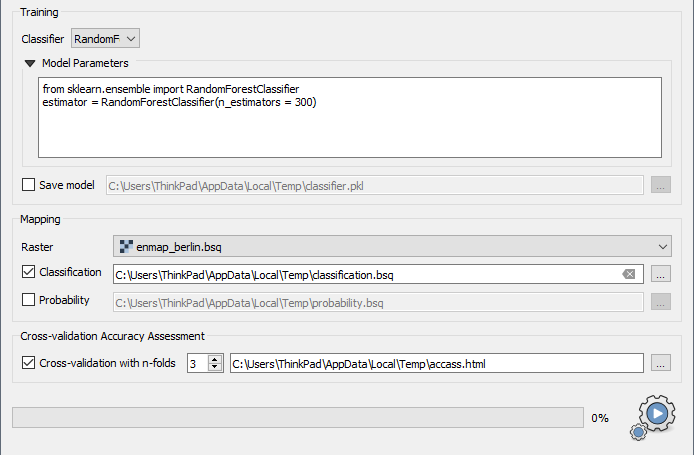
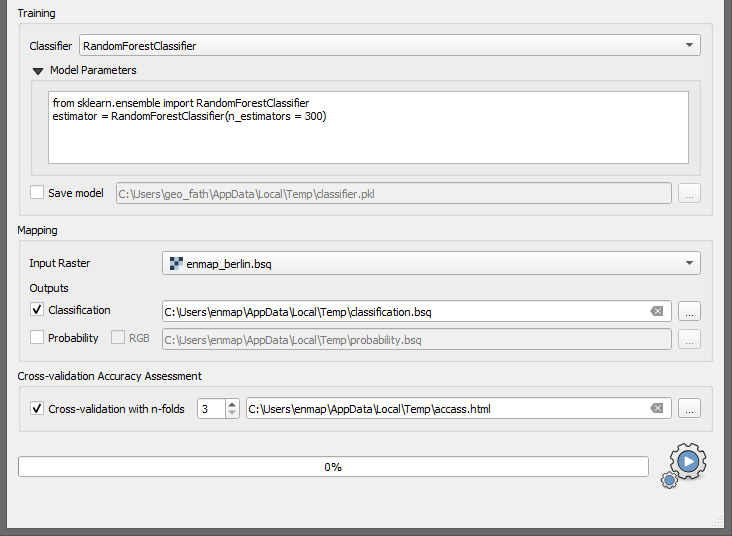
doc: css updates for guilabels, smaller edits, updated screenshots

Changed region(s): [[0.0, 0.0, 1.0, 1.0], [0.4236, 0.8615, 0.4841, 0.8923], [0.8473, 0.8923, 0.8775, 0.9231]]

diff --git a/doc/source/_static/css/custom.css b/doc/source/_static/css/custom.css
@@ -1,5 +1,46 @@
+/*
+.wy-nav-content {
+ max-width: 800px;
+}
+*/
+
+.menuselection {
+ border:1px dashed #7fbbe366;
+ background:#f1f9ff;
+ font-size:95%;
+ font-weight:700;
+ border-radius:1px;
+ padding:2.4px 6px;
+ margin:auto 2px
+}
+
+.rst-content .guilabel {
+ border:1px solid #7fbbe366;
+ background:#f1f9ff;
+ font-size:95%;
+ font-weight:700;
+ border-radius:1px;
+ padding:2.4px 6px;
+ margin:auto 2px
+}
+
+
+/*
 .menuselection {
     font-family: "Lato","proxima-nova","Helvetica Neue",Arial,sans-serif;
-/*    font-style: italic; */
+    font-style: italic;
     font-weight: bold;
 }
+*/
+
+/*
+.guilabel {
+ border:1px solid #7fbbe3;
+ background:#e7f2fa;
+ font-size:80%;
+ font-weight:700;
+ border-radius:4px;
+ padding:2.4px 6px;
+ margin:auto 2px
+}
+*/

diff --git a/doc/source/usr_section/usr_gettingstarted.rst b/doc/source/usr_section/usr_gettingstarted.rst
@@ -28,51 +28,49 @@ Loading Testdata
 
 * Go to :menuselection:`Project --> Load Example Data` to load example datasets into you project (on first open, you will be asked whether
   to download the dataset, confirm with :guilabel:`OK`). The following datasets
-  will be added (now they are listed in the ``Data Sources`` window):
-    * enmap_berlin.bsq
-    * hires_berlin.bsq
-    * landcover_berlin_point.shp
-    * landcover_berlin_polygon.shp
-    * library_berlin.sli
+  will be added (now they are listed in the :guilabel:`Data Sources` window):
 
-  .. tip::
+  * enmap_berlin.bsq
+  * hires_berlin.bsq
+  * landcover_berlin_point.shp
+  * landcover_berlin_polygon.shp
+  * library_berlin.sli
 
-    Have a look at the section :ref:`Test dataset <test_dataset>` for further information on the dataset. In this section we will
-    mainly work with *enmap_berlin.bsq* and *landcover_berlin_point.shp*
+.. tip::
+
+   Have a look at the section :ref:`Test dataset <test_dataset>` for further information on the dataset. In this section we will
+   mainly work with *enmap_berlin.bsq* and *landcover_berlin_point.shp*
 
 
 First Steps in the GUI
 ######################
 
-* By default the example data is loaded into a single Map View. Let's rearrange those for better visualisation and in order
-  to get to know the GUI functionalities:
+By default the example data is loaded into a single Map View. Let's rearrange those for better visualisation and in order
+to get to know the GUI functionalities:
 
-    * Click the |openmapwindow| :superscript:`Open a map window` button to add a second map view. The window appears
-      below the first map window.
+* Click the |openmapwindow| :superscript:`Open a map window` button to add a second map view. The window appears
+  below the first map window.
+* We want to arrange the windows so that they are next to each other (horizontally). Click and hold on the blue area
+  of :guilabel:`Map #2` and drag it to the right of :guilabel:`Map #1` (see figure below). The translucent blue rectangle indicates where the
+  map window will be docked once you stop holding the left mouse button.
 
-    * We want to arrange the windows so that they are next to each other (horizontally). Click and hold on the blue area
-      of Map #2 and drag it to the right of Map #1 (see figure below). The translucent blue rectangle indicates where the
-      map window will be docked once you stop holding the left mouse button.
+  .. image:: ../img/mapviewshift.png
 
-      .. image:: ../img/mapviewshift.png
-
-    * Now, in the ``Data Views`` window, expand the Map #1 list, so that you can see the individual layers. Select
-      *hires_berlin.bsq* and drag the layer into Map #2 (you can drag them directly into the map views or the respective menu item under ``Data Views``).
-      You can remove *library_berlin.sli* and *landcover_berlin_polygon.shp*, since they are not needed here. Right-click on the layer
-      in the Data Views panel and select *Remove Layer*.
-
-    * In the next step we link both map views, so that zoom and center are synchronized between both. Go to :menuselection:`View --> Set Map Linking` and
-      select |linkscalecenter| :superscript:`Link map scale and center`.
-
-    * Move the map (using |pan| or holding mouse wheel) and see how both map views are synchronized.
+* Now, in the :guilabel:`Data Views` window, expand the :guilabel:`Map #1` list, so that you can see the individual layers. Select
+  *hires_berlin.bsq* and drag the layer into :guilabel:`Map #2` (you can drag them directly into the map views or the respective menu item under :guilabel:`Data Views`).
+  You can remove *library_berlin.sli* and *landcover_berlin_polygon.shp*, since they are not needed here. Right-click on the layer
+  in the Data Views panel and select *Remove Layer*.
+* In the next step we link both map views, so that zoom and center are synchronized between both. Go to :menuselection:`View --> Set Map Linking` and
+  select |linkscalecenter| :superscript:`Link map scale and center`.
+* Move the map (using |pan| or holding mouse wheel) and see how both map views are synchronized.
 
 
 Image Classification
 ####################
 
 * Go to :menuselection:`Applications --> Classification Workflow` to open the Classification Workflow application.
-* At the top, choose *enmap_berlin.bsq* as ``Raster`` and *landcover_berlin_point* as ``Reference``. Select *level_2_id* as ``Attribute``.
-  After selection of the ``Attribute`` the class names and colors become visible.
+* At the top, choose *enmap_berlin.bsq* as :guilabel:`Raster` and *landcover_berlin_point* as :guilabel:`Reference`. Select *level_2_id* as :guilabel:`Attribute`.
+  After selection of the attribute the class names and colors become visible in the :guilabel:`Sampling` submenu.
 
   .. image:: ../img/classwf1.png
 
@@ -83,8 +81,8 @@ Image Classification
 
 ..     Find more information on the Classification Workflow application in the :ref:`User Manual <classification_workflow>`
 
-* As ``Classifier`` choose RandomForestClassifier (which is the default setting)
-* In the ``Model Parameters`` text field add the parameter ``n_estimators = 300``. This will increase the number of trees
+* As :guilabel:`Classifier` choose RandomForestClassifier (which is the default setting)
+* In the :guilabel:`Model Parameters` text field add the parameter ``n_estimators = 300``. This will increase the number of trees
   in the random forest. We alter this parameter here, because the scikit-learn default is 10, which is quite low.
   So the text field should look like this:
 
@@ -93,24 +91,25 @@ Image Classification
       from sklearn.ensemble import RandomForestClassifier
       estimator = RandomForestClassifier(n_estimators = 300)
 
-* Under ``Mapping`` you have to specify the raster which will be classified. We will choose the same raster we took the samples from,
-  so select *enmap_berlin.bsq* as ``Raster``.
-* Make sure to check |cb1| the ``Classification`` output. Specify an output path and filename by pressing :guilabel:`...` or
+* Under :guilabel:`Mapping` you have to specify the raster which will be classified. We will choose the same raster we took the samples from,
+  so select *enmap_berlin.bsq* as :guilabel:`Raster`.
+* Make sure to check |cb1| the :guilabel:`Classification` output. Specify an output path and filename by pressing :guilabel:`...` or
   use the default, which will save the output to a temporary location.
-* Also select |cb1| to perform a ``Cross-validation with n-folds``. You can leave the number of folds at 3. Specify
+* Also select |cb1| to perform a :guilabel:`Cross-validation with n-folds`. You can leave the number of folds at 3. Specify
   output path for the HTML report or use default (temporary directory).
 
   .. image:: ../img/classwf2.png
 
 * Click the run button |action| to start the classification.
-* Once the process has finished, the classification image will be listed in the ``Data Sources`` panel (if not, open it again via |add_datasource|).
+* Once the process has finished, the classification image will be listed in the :guilabel:`Data Sources` panel (if not, open it again via |add_datasource|).
   Also, the HTML report of the accuracy assessment will open automatically in the default web browser.
 
   .. figure:: ../img/screenshot_aareport.png
 
      Screenshot of the Classification Performance HTML report
-* Now visualize the classification result side-by-side with the initial image. Therefore, right-click into Map #2 and
-  select *Clear*. Drag the classification image from the ``Data Sources`` panel into Map #2
+
+* Now visualize the classification result side-by-side with the initial image. Therefore, right-click into :guilabel:`Map #2` and
+  select :menuselection:`--> Clear`. Drag the classification image from the :guilabel:`Data Sources` panel into :guilabel:`Map #2`
 
   .. figure:: ../img/screenshot_class_result.png
 

diff --git a/doc/source/usr_section/usr_manual/gui.rst b/doc/source/usr_section/usr_manual/gui.rst
@@ -211,7 +211,7 @@ corresponding metadata are available:
 
 .. tip::
 
-   * If you want to remove all layers of a type at once (e.g. Raster Data), :menuselection:`right-click on Raster Data --> Clear`
+   * If you want to remove all layers of a type at once, right-click on the layer group (e.g. Raster Data) and select :guilabel:`Clear`
    * The EnMAP-Box also supports Tile-/Web Map Services (e.g. Google Satellite or OpenStreetMap) as a raster layer. Just add them to
      your QGIS project as you normally would, and then click the |qgisicon| :superscript:`Synchronize Data Sources with QGIS`
      button. Now they should appear in the data source panel and can be added to a Map View.
@@ -222,6 +222,20 @@ corresponding metadata are available:
 The Data Views panel organizes the different windows and their content.
 You may change the name of a Window by double-clicking onto the name in the list.
 
+**Buttons of the Data Views panel:**
+
+.. list-table::
+   :widths: auto
+   :align: left
+   :header-rows: 1
+
+   * - Button
+     - Description
+   * - |mActionCollapseTree|
+     - | Collapses the whole menu tree, so that only
+       | layer type groups are shown.
+   * - |mActionExpandTree|
+     - | Expands menu tree to show all branches.
 
 .. figure:: ../../img/example_data_views.png
    :width: 100%
@@ -258,15 +272,15 @@ available:
 * |linkscale| Link map scale
 * |linkcenter| Link map center
 
-In order to link Map Windows, go to :menuselection:`View --> Set Map Linking`, which will open the following dialog:
+In order to link Map Windows, go to :menuselection:`View --> Set Map Linking` in the menu bar, which will open the following dialog:
 
 .. image:: ../../img/map_linking.png
 
 Here you can specify the above mentioned link options between the Map Windows. You may either specify linkages between pairs
-or link all canvases at once (the ``All Canvases`` option is only specifiable when the number of Map Windows is > 2). Remove
+or link all canvases at once (the :guilabel:`All Canvases` option is only specifiable when the number of Map Windows is > 2). Remove
 created links by clicking |unlink|.
 
-**Alternative:** You can also create linkages between Map Windows directly from the Window itself:
+**Alternative:** You can also create linkages between Map Windows directly from within the windows:
 
 .. warning:: Mind that this method might not work on Linux or Mac systems (due to display problems).
              In that case just use :menuselection:`View --> Set Map Linking`.
@@ -278,9 +292,6 @@ created links by clicking |unlink|.
       :width: 100%
 
 #. Select the desired linking type by clicking on the respective button.
-
-
-|
 
 
 .. raw:: html
@@ -335,7 +346,7 @@ See `QGIS Documentation - The toolbox <https://docs.qgis.org/testing/en/docs/use
 =========================
 
 This tools lets you inspect the values of a layer or multiple layers at the location where you click in the map view. To select a location (e.g. pixel or feature)
-select the :guilabel:`Select Cursor Location` or the |mActionIdentify| :superscript:`Identify` button and click somewhere in the map view.
+use the |select_location| :superscript:`Select Cursor Location` button and click somewhere in the map view.
 
 * The Cursor Location Value panel should open automatically and list the information for a selected location. The layers will be listed in the order they appear in the Map View.
   In case you do not see the panel, you can open it via :menuselection:`View --> Panels --> Cursor Location Values`.

diff --git a/doc/source/usr_section/usr_manual/processing_algorithms/classification/predict_classification.rst b/doc/source/usr_section/usr_manual/processing_algorithms/classification/predict_classification.rst
@@ -3,18 +3,25 @@ Predict Classification
 
 Applies a classifier to a raster.
 
-Raster
-    Select raster file which should be classified.
+Parameters
+^^^^^^^^^^
 
-Mask
-    Specified vector or raster is interpreted as a boolean mask.
+``Raster`` [raster]
+  Select raster file which should be classified.
 
-    In case of a vector, all pixels covered by features are interpreted as True, all other pixels as False.
+``Mask`` [raster, vector: any]
+  Optional
 
-    In case of a raster, all pixels that are equal to the no data value (default is 0) are interpreted as False, all other pixels as True.Multiband rasters are first evaluated band wise. The final mask for a given pixel is True, if all band wise masks for that pixel are True.
+  Specified vector or raster is interpreted as a boolean mask. In case of a vector, all pixels covered by
+  features are interpreted as True, all other pixels as False. In case of a raster, all pixels that are equal to the
+  no data value (default is 0) are interpreted as False, all other pixels as True. Multiband rasters are first evaluated
+  band wise. The final mask for a given pixel is True, if all band wise masks for that pixel are True.
 
-Classifier
-    Select path to a classifier file (.pkl).
+``Classifier`` [pkl: classifier]
+  Select path to a classifier file.
 
-Output Classification
-    Specify output path for classification raster.
+Outputs
+^^^^^^^
+
+``Output Classification`` [raster]
+  Specify output path for classification raster.

diff --git a/doc/source/usr_section/usr_manual/processing_datatypes.rst b/doc/source/usr_section/usr_manual/processing_datatypes.rst
@@ -172,7 +172,7 @@ Spectral Library
 ================
 
 The EnMAP-Box supports the ENVI standard spectral library format (.sli + .hdr file). Spectral libraries can be imported
-as single line raster using the processing algorithm *Auxillary -> Import Library*.
+as single line raster using the processing algorithm :menuselection:`Auxillary --> Import Library`.
 
 .. todo:: Support for further formats will be implemented soon (e.g. import spectral library from ASD field spectrometer)
 
@@ -256,7 +256,7 @@ Models
 .. note::
 
    You can generate example model files which are based on the EnMAP-Box test dataset. In the processing algorithms under
-   *EnMAP-Box -> Auxilliary* you can find one algorithm for each kind of model file:
+   :menuselecion:`EnMAP-Box --> Auxilliary` you can find one algorithm for each kind of model file:
      * Create Test Classifier (RandomForest)
      * Create Clusterer (KMeans)
      * Create Regressor (RandomForest)

diff --git a/doc/source/usr_section/usr_manual/applications.rst b/doc/source/usr_section/usr_manual/applications.rst
@@ -20,13 +20,9 @@ Classification Workflow
 EO Time Series Viewer
 =====================
 
-Please visit `Read the Docs - EO Time Series Viewer <https://eo-time-series-viewer.readthedocs.io/en/latest/>`_ for more information.
+Please visit `EO Time Series Viewer Documentation <https://eo-time-series-viewer.readthedocs.io/en/latest/>`_ for more information.
 
 Agricultural Applications
 =========================
 
-IVVRM
-~~~~~
-
-**Interactive Visualization of Vegetation Reflectance Models:**
-
+Please visit `LMU Vegetation Apps Documentation <https://enmap-box-lmu-vegetation-apps.readthedocs.io/en/latest/>`_ for more information.

diff --git a/doc/source/general/contact.rst b/doc/source/general/contact.rst
@@ -10,6 +10,6 @@ Contact
 
 **Further information:**
 
-    * EnMAP mission, `www.enmap.org <http://www.enmap.org/>`_
-    * HUB Geomatics lab, `www.hu-geomatics.de <https://www.geographie.hu-berlin.de/en/professorships/geomatics>`_
+* EnMAP mission, `www.enmap.org <http://www.enmap.org/>`_
+* HUB Geomatics lab, `www.hu-geomatics.de <https://www.geographie.hu-berlin.de/en/professorships/geomatics>`_
 

diff --git a/doc/source/usr_section/usr_cookbook/imagemath.rst b/doc/source/usr_section/usr_cookbook/imagemath.rst
@@ -1,7 +1,7 @@
 Map Algebra with ImageMath
 ==========================
 
-You can open the ImageMath raster calculator under *Applications -> ImageMath*
+You can open the ImageMath raster calculator under :menuselection:`Applications --> ImageMath`
 
 Calculate NDVI
 ~~~~~~~~~~~~~~

diff --git a/doc/source/general/about.rst b/doc/source/general/about.rst
@@ -8,7 +8,7 @@ About
     :width: 400px
     :align: center
 
-
+|
 
 The EnMAP-Box is a free and open source plug-in for `QGIS <https://www.qgis.org/en/site/#>`_.
 It is designed to process imaging spectroscopy data and
